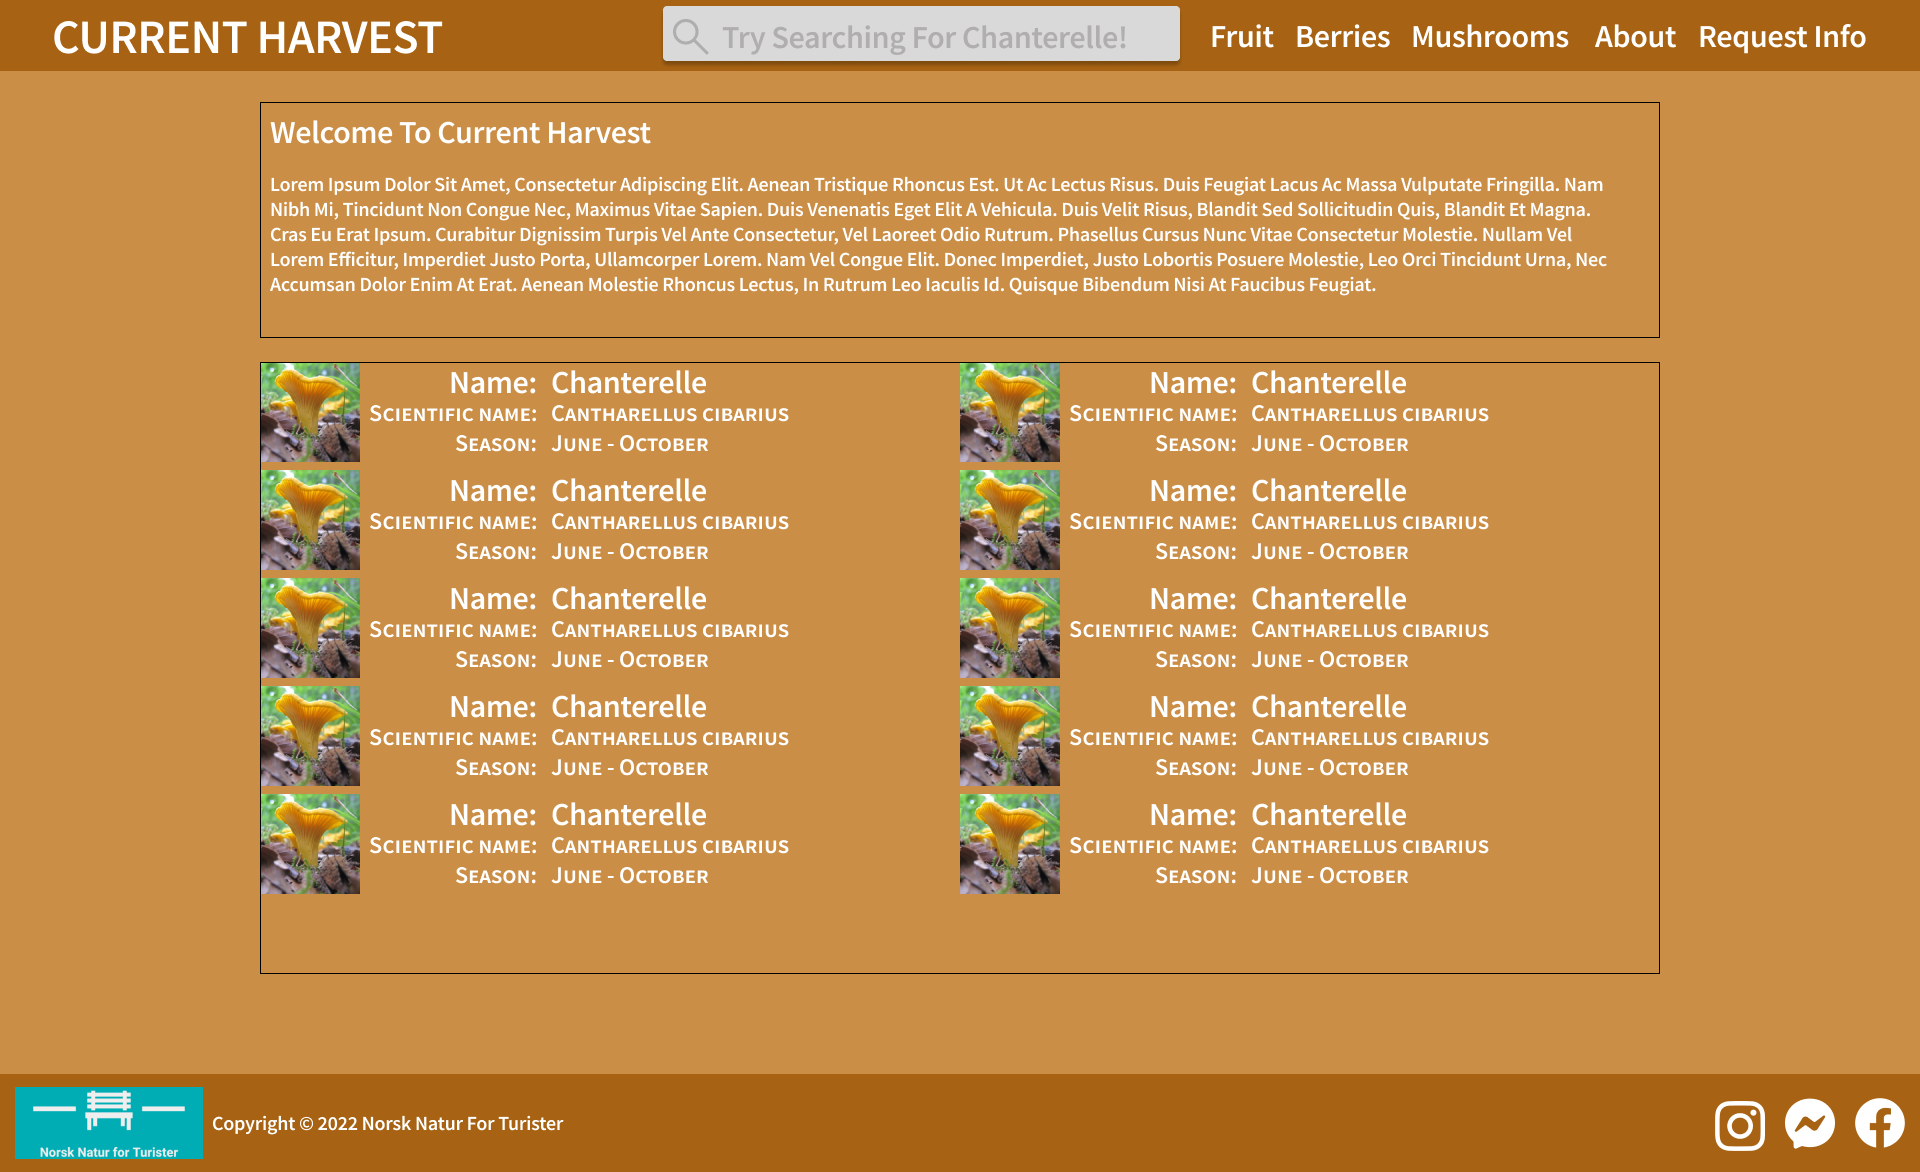
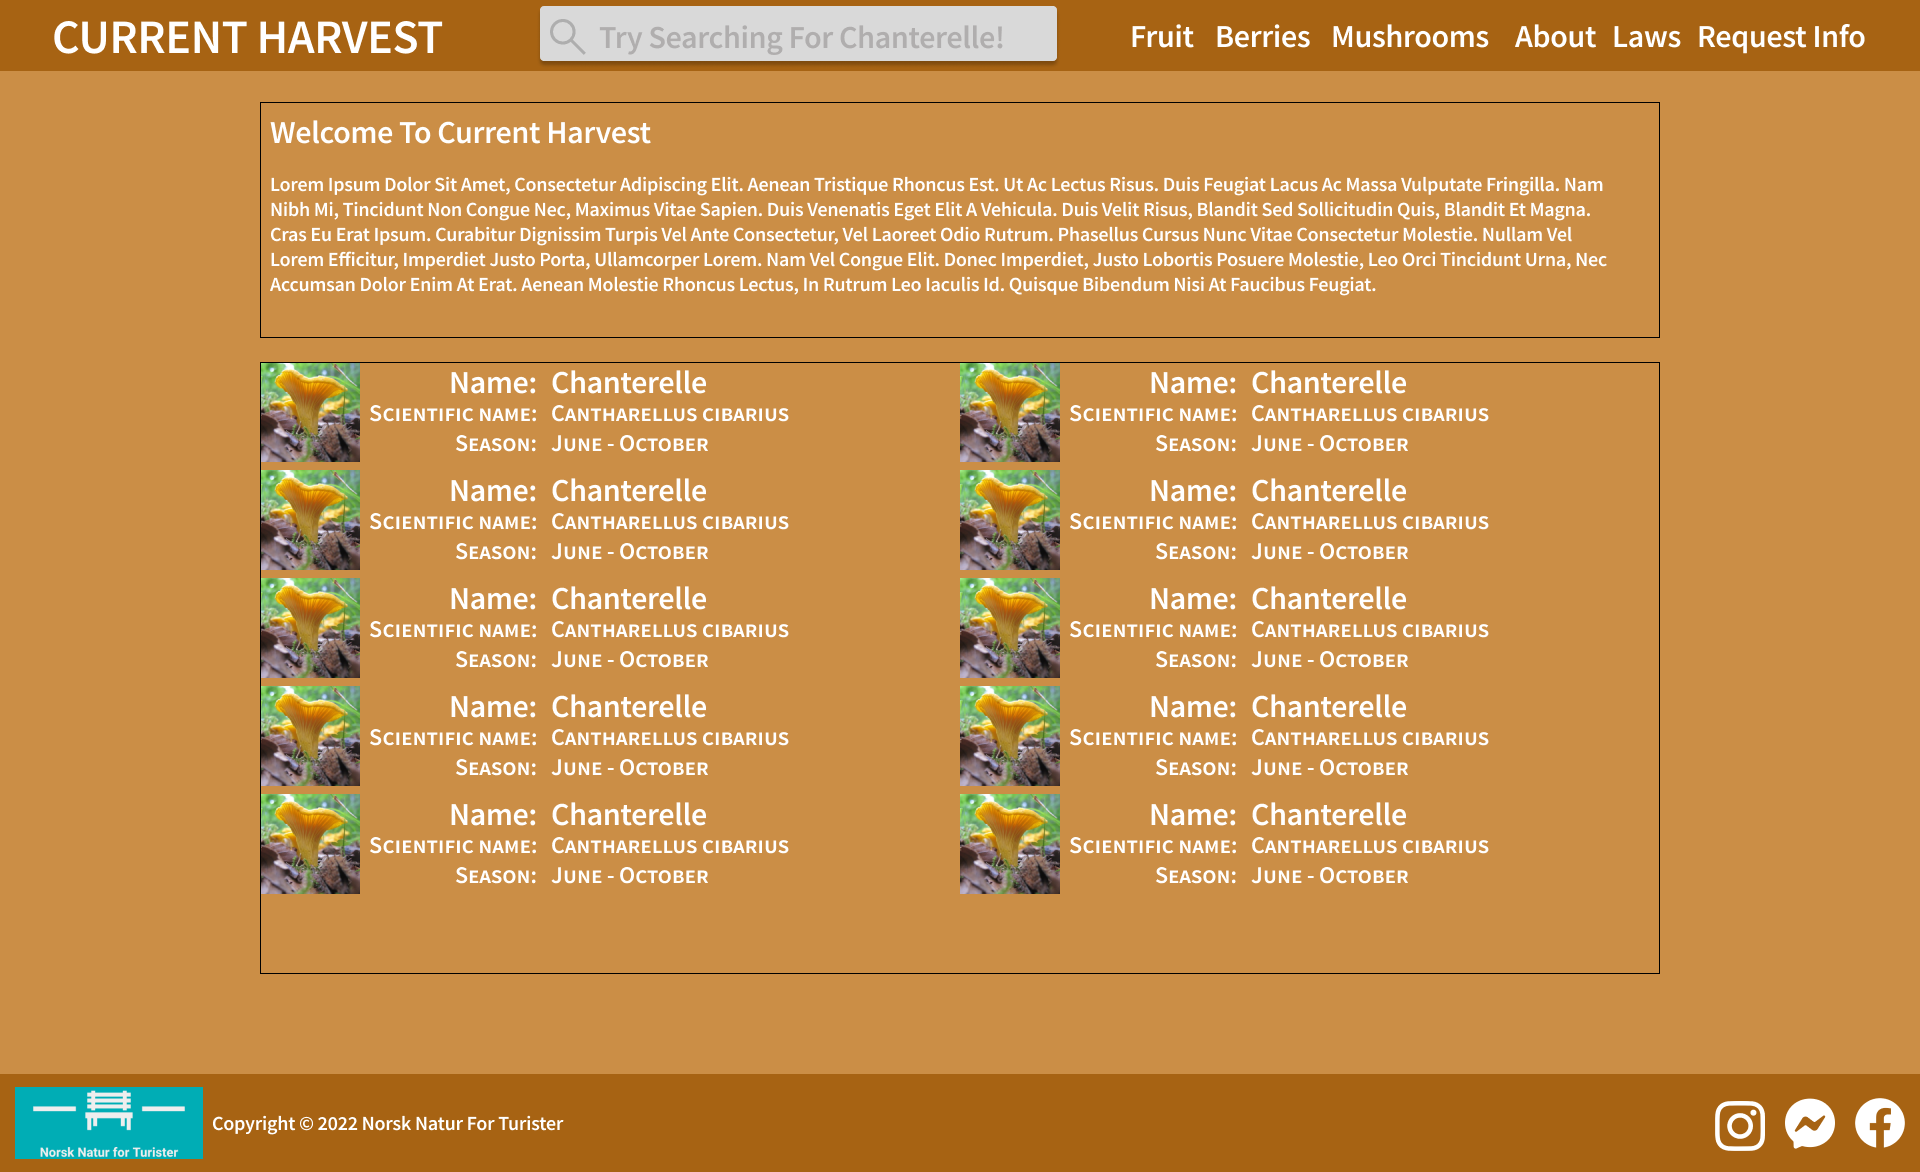
Added laws to navbar in all p2 imgs + updated p2 html

Changed region(s): [[0.2812, 0.0, 0.875, 0.0614], [0.9062, 0.0307, 0.9688, 0.0614]]

diff --git a/Documents/P2/P2_design_35.html b/Documents/P2/P2_design_35.html
@@ -73,6 +73,7 @@
             </li>
             <li>Laws - laws.html
                 <p>We will make a page about the laws regarding which, when and where you can harvest different plants, if we have the time. The page will link to “Lovdata.no”. It will also contain a navbar and footer. </p>
+                <img src="Images/Laws.png" alt="" width="600">
             </li>
             <li>Request information – request_info.html 
                 <p>Header on top. A small textbox with information about how to upload photo, and get 	information about the fruit/mushroom/berry. A contact scheme with first and last name, phone number, address, zip code, email, message box and button to upload your image. It will also contain a navbar and footer.  </p>
@@ -186,7 +187,7 @@
                     <li>style.css</li>
                 </ul>
         </ul>
-        <h3>Work Dicision and Deadlines</h3>
+        <h3>Work Distribution and Deadlines</h3>
         <table>
             <thead>
                 <tr>
